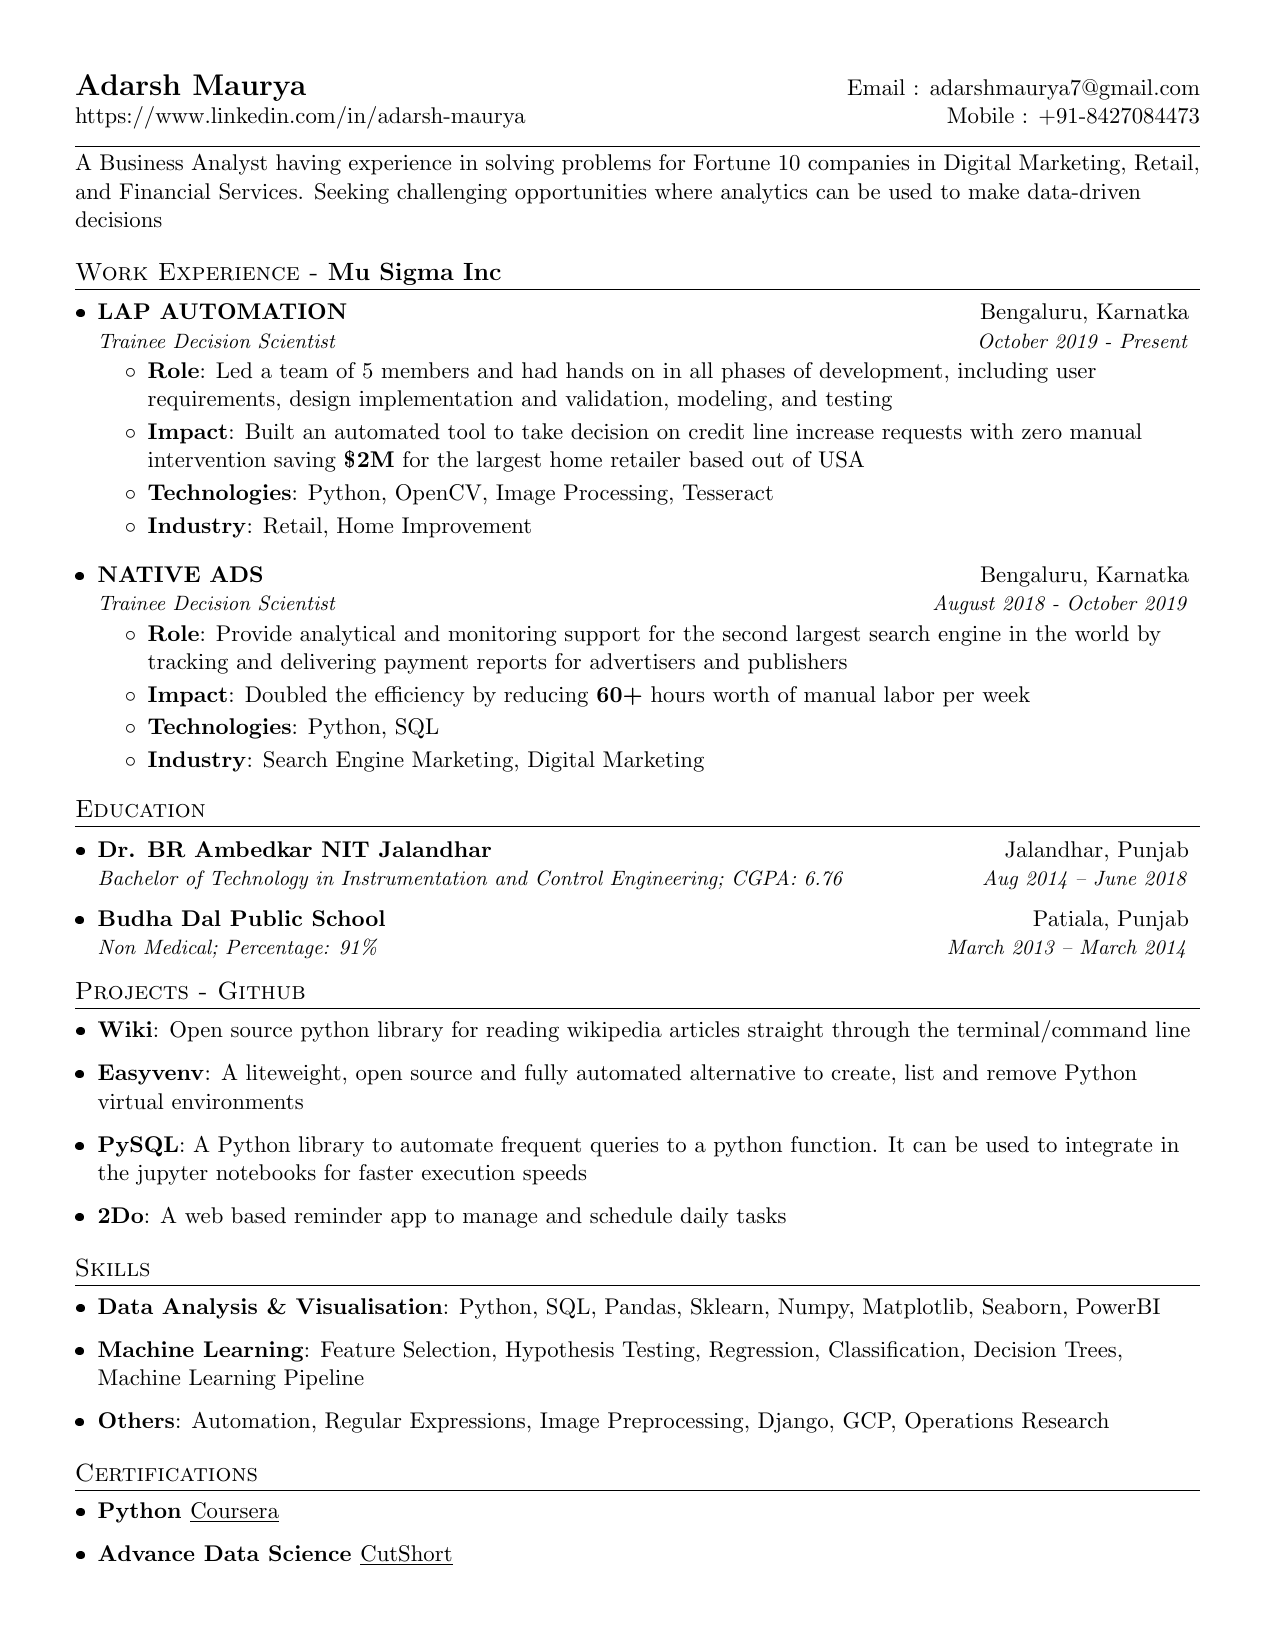
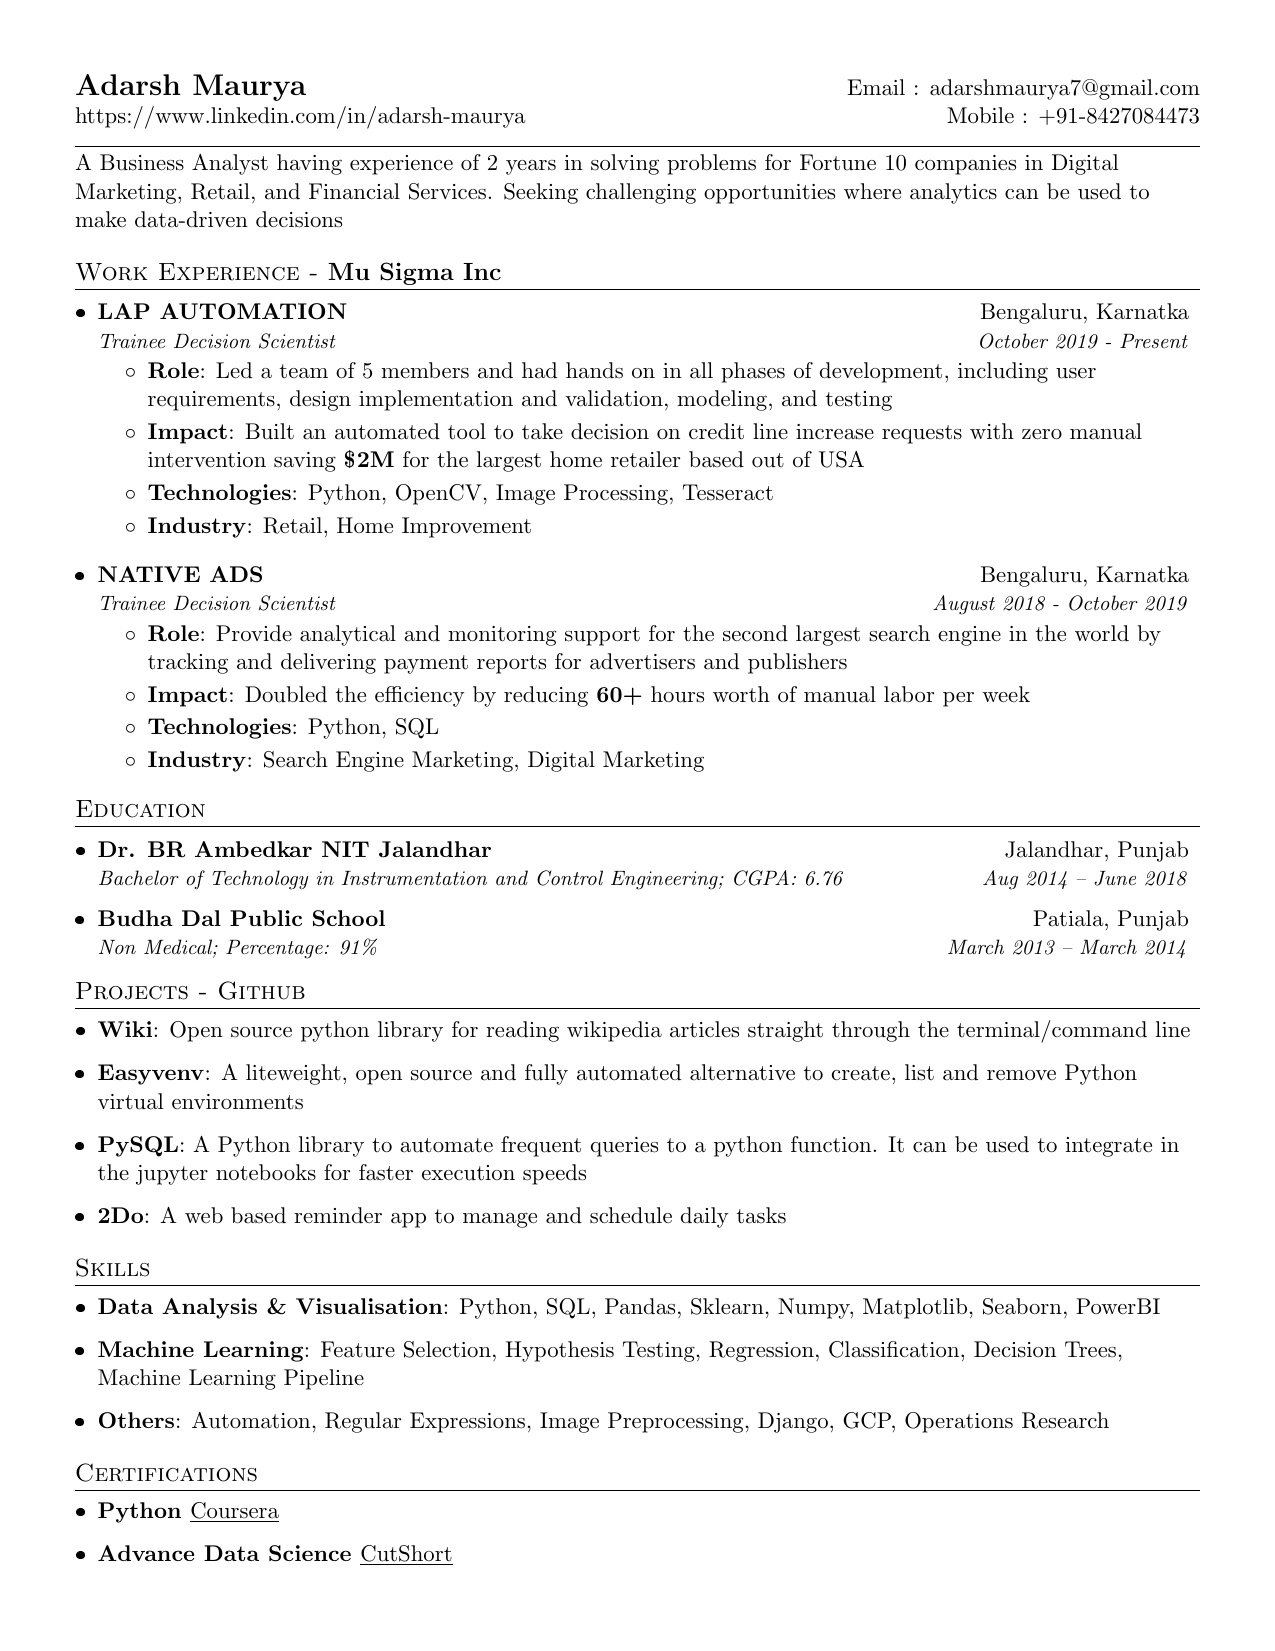
Added years of experience in Summary

Changed region(s): [[0.0612, 0.0927, 0.9176, 0.1545]]

diff --git a/adarsh_maurya_resume.tex b/adarsh_maurya_resume.tex
@@ -86,7 +86,7 @@
   \textbf{\Large Adarsh Maurya}} & Email : \href{mailto:adarshmaurya7@gmail.com}{adarshmaurya7@gmail.com}\\
   \href{https://www.linkedin.com/in/adarsh-maurya-486b74124/}{https://www.linkedin.com/in/adarsh-maurya} & Mobile : +91-8427084473 \\
 \end{tabular*}
-\vspace{4pt}\hrule\vspace{4pt}{A Business Analyst having experience in solving problems for Fortune 10 companies in Digital Marketing, Retail, and Financial Services. Seeking challenging opportunities where analytics can be used to make data-driven decisions}
+\vspace{4pt}\hrule\vspace{4pt}{A Business Analyst having experience of 2 years in solving problems for Fortune 10 companies in Digital Marketing, Retail, and Financial Services. Seeking challenging opportunities where analytics can be used to make data-driven decisions}
 
 
 %-----------EXPERIENCE-----------------
